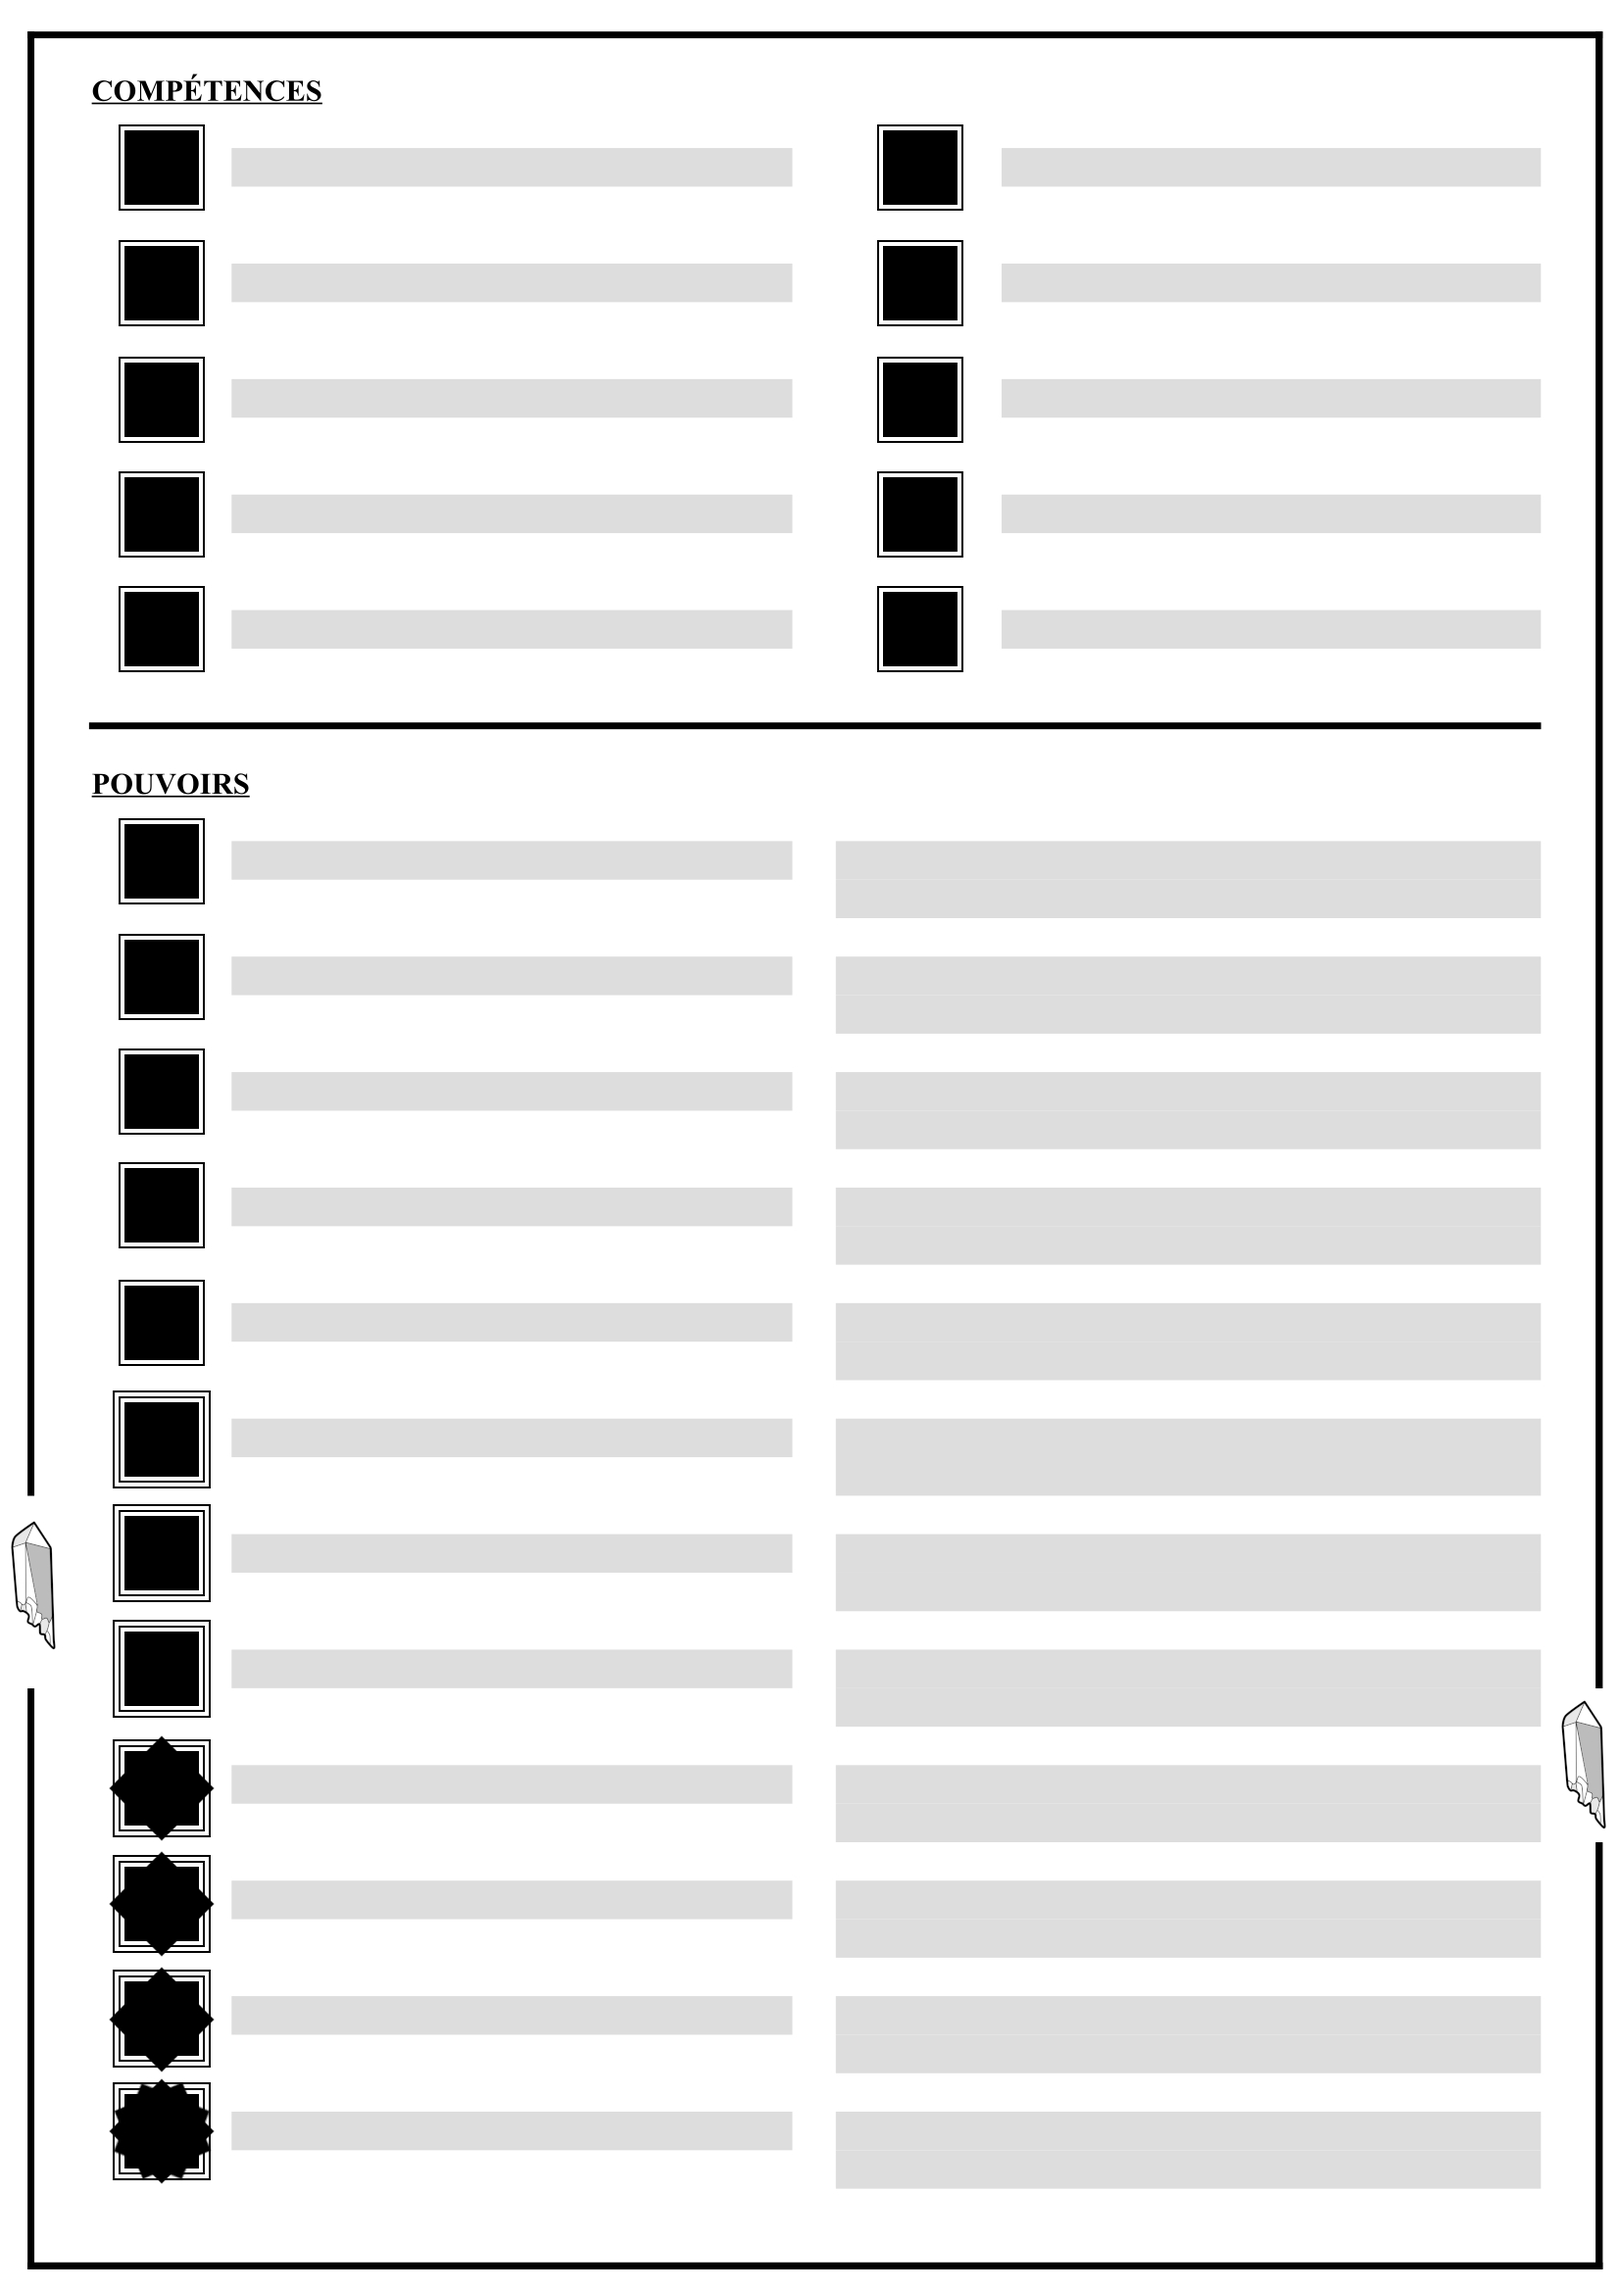
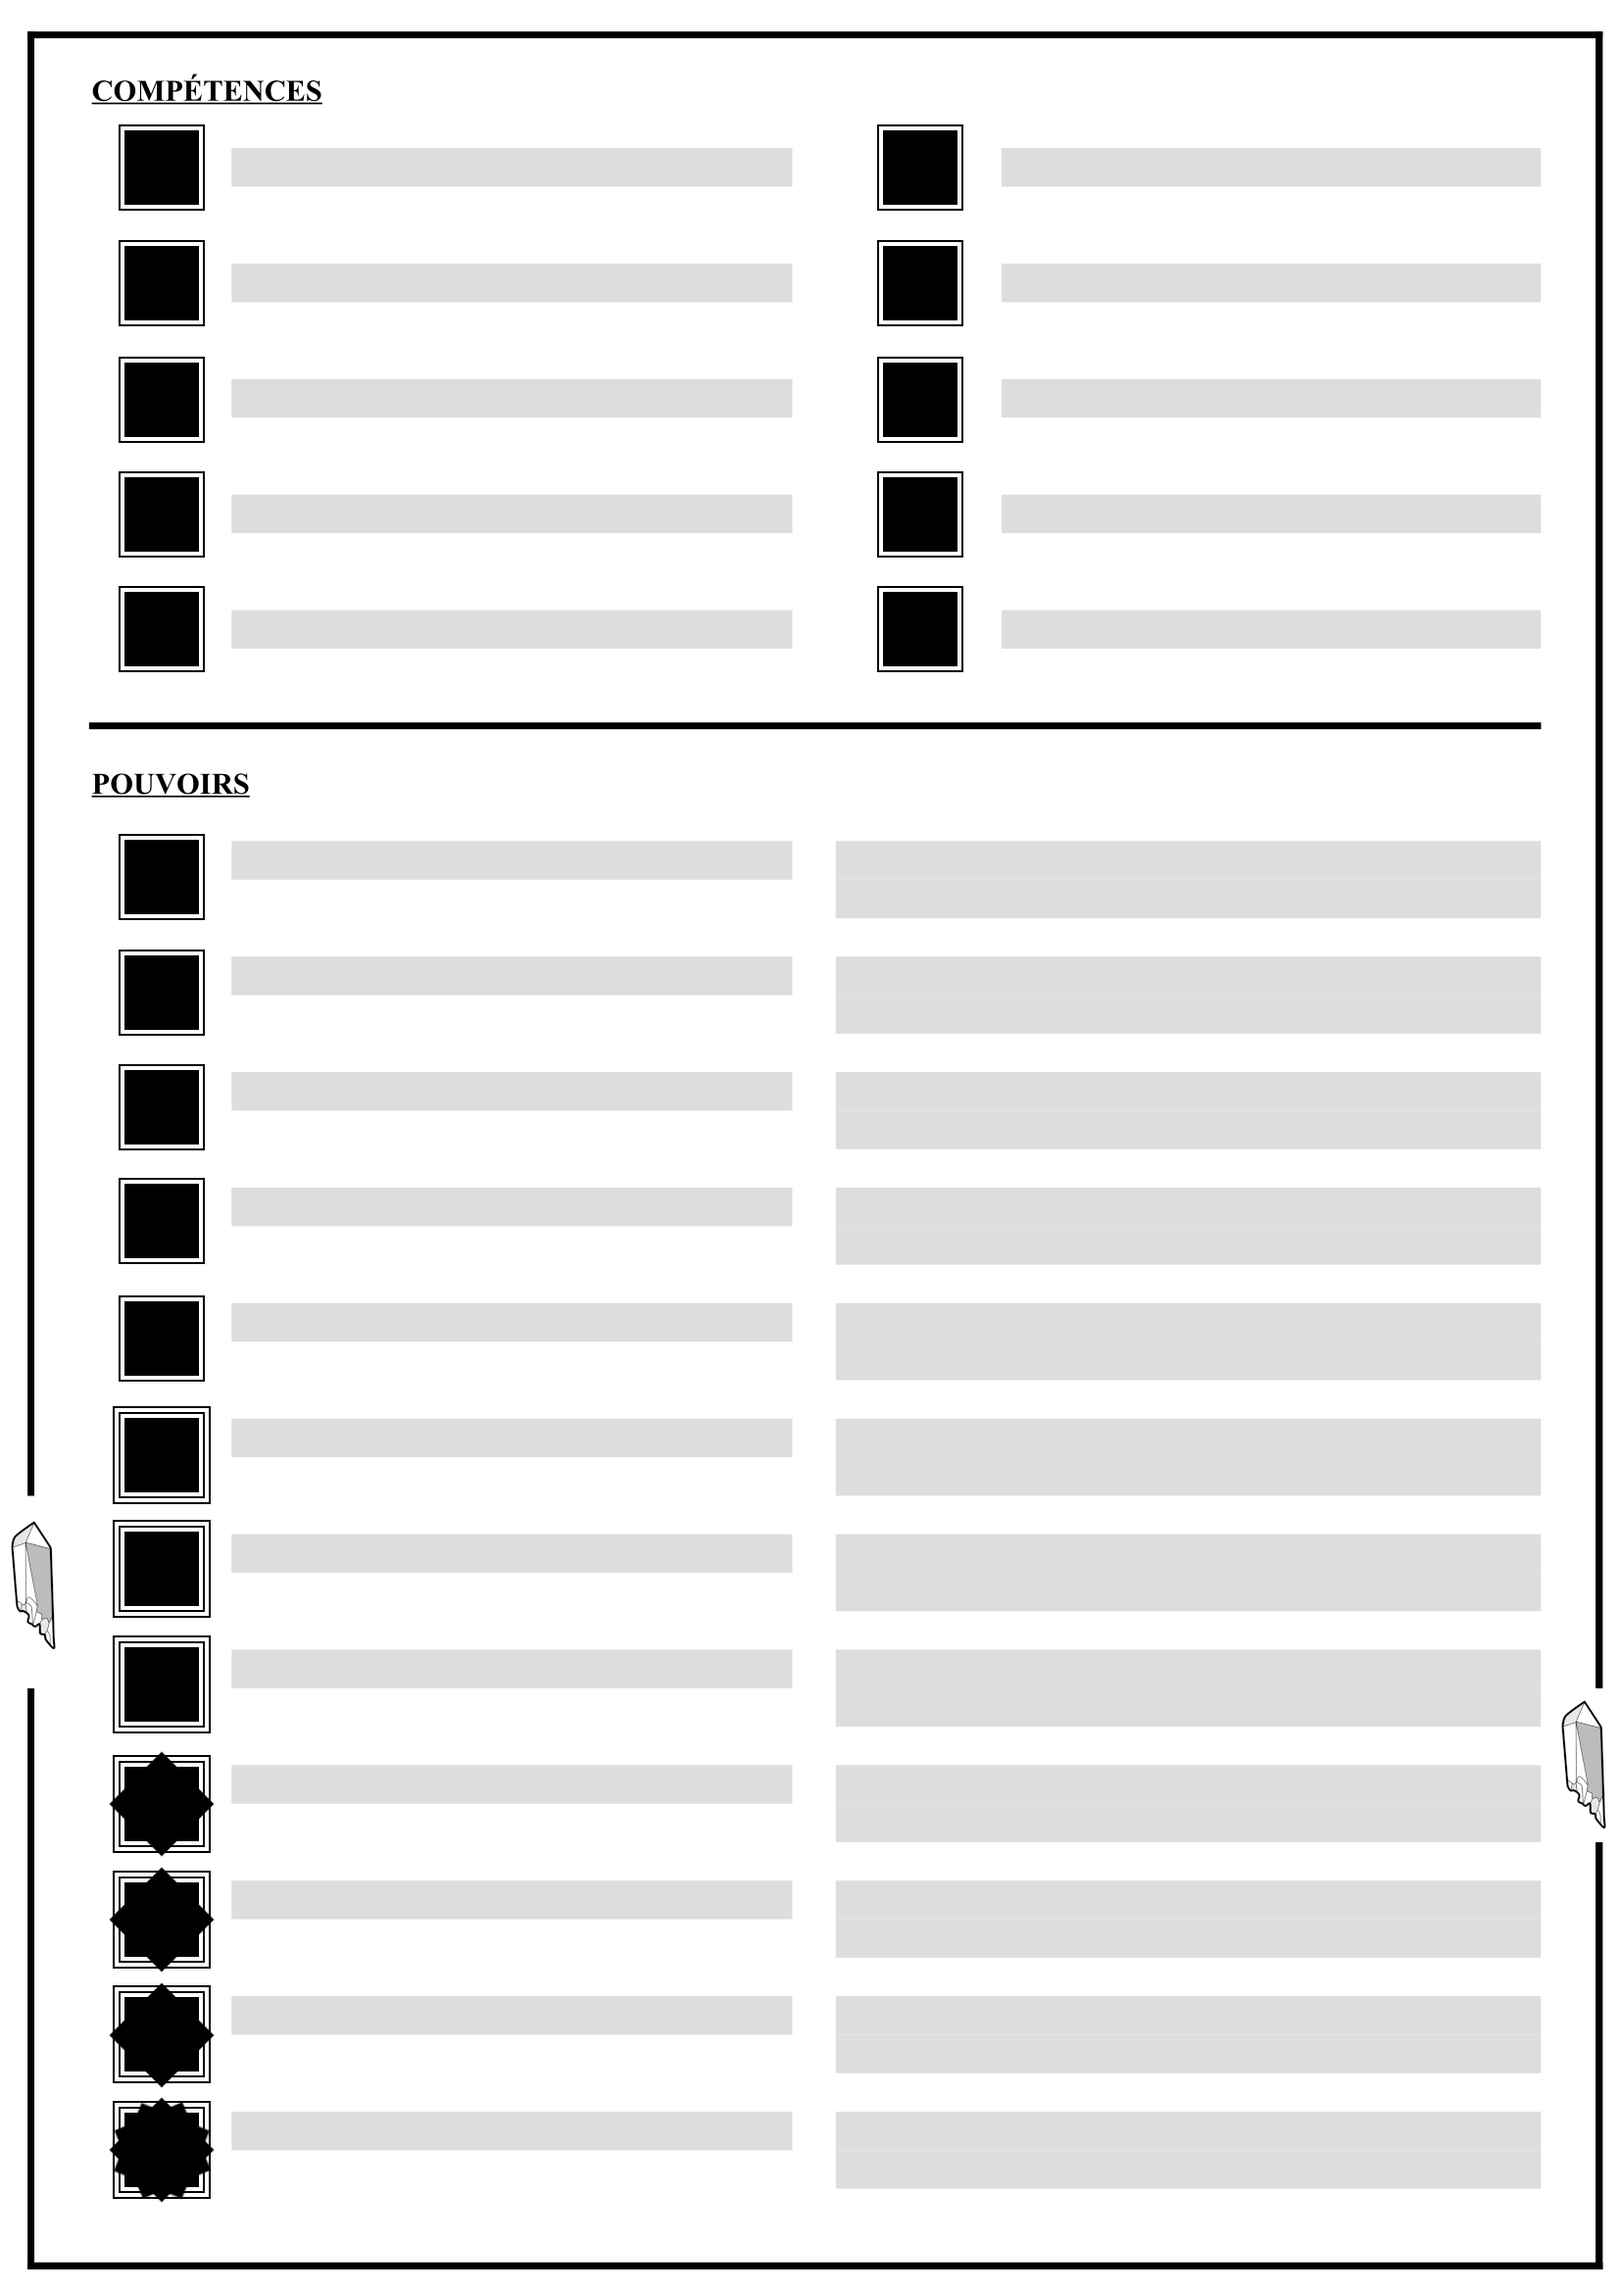
Refactor(creation): Change display of powers

Changed region(s): [[0.0617, 0.3435, 0.1234, 0.9679]]

diff --git a/src/utils/downloads.ts b/src/utils/downloads.ts
@@ -1,7 +1,8 @@
 import { ArlenorCharacter } from "@/models/ArlenorCharacter";
+import { ArlenorPower, PowerRanksEnum } from "@/models/ArlenorPower";
 import jsPDF from "jspdf";
 
-const downloadPDF = async(character: ArlenorCharacter): Promise<void> => {
+const downloadPDF = async(character: ArlenorCharacter, allPowers: ArlenorPower[]): Promise<void> => {
   const doc = new jsPDF("p", "px", "a4");
   const width = doc.internal.pageSize.getWidth();
   const height = doc.internal.pageSize.getHeight();
@@ -101,24 +102,57 @@ const downloadPDF = async(character: ArlenorCharacter): Promise<void> => {
   }
 
   // --- POUVOIRS
-  const iconPower = await require("../assets/icons/powers/pouvoir_mental.png");
+  const powersS = allPowers.filter(power => power.codeRank === PowerRanksEnum.Unique.Code);
+  const powersA = allPowers.filter(power => power.codeRank === PowerRanksEnum.TresRare.Code);
+  const powersB = allPowers.filter(power => power.codeRank === PowerRanksEnum.Rare.Code);
+  const powersC = allPowers.filter(power => power.codeRank === PowerRanksEnum.Commun.Code);
+
+  const spe01 = powersC[0]?.speciality?.name;
+  const spe02 = powersB[0]?.speciality?.name;
+  const grp01 = powersC[0]?.group?.name;
+  const grp02 = powersB[0]?.group?.name;
+
+  x = 425;
+  y = 212;
+  doc.text("Classe principale : " + spe01 + "(" + grp01 + ")", x, y, { align: "right" });
+  doc.text("Classe secondaire : " + spe02 + "(" + grp02 + ")", x, y+12, { align: "right" });
 
   x = 34.6;
   y = 227;
   for(let i = 0; i < 12; i++) {
-    doc.addImage(iconPower, "JPEG", x, y, 20, 20);
-    doc.text("Nom du pouvoir", x + x_txt_scale - 1, y + y_txt_scale);
-    doc.setFontSize(8);
-    doc.text("Description du pouvoir...description du pouvoir...description du pouvoir...description du pouvoir..."
-    +"description du pouvoir...description du pouvoir...description du pouvoir...description du pouvoir...", x + 202, y + y_txt_scale - 2, {
-      align: "justify",
-      maxWidth: 180,
-    });
-    doc.setFontSize(10);
+    let power = null;
+    if (0 <= i && i <= 4 && (i+1) <= powersC.length) power = powersC[i];
+    if (5 <= i && i <= 7 && (i+1-5) <= powersB.length) power = powersB[i-5];
+    if (8 <= i && i <= 10 && (i+1-8) <= powersA.length) power = powersA[i-8];
+    if (i === 11 && (i+1-11) <= powersS.length) power = powersS[i-11];
+    if (power) {
+      if (power.image) doc.addImage(power.image, "JPEG", x, y+4.5, 20, 20);
+
+      const title = checkLibelle(power.name + " (" + power.type.Libelle + ")", 40);
+      const subtitle = checkLibelle(power.range.Libelle, 6, true)
+        + " - " + checkLibelle(power.duration.Libelle, 6, true)
+        + " - " + power.tests.Libelle
+        + " - " + (power.chaneling ? "Avec" : "Sans") + " canalisation";
+      const description = checkLibelle(power.description, 185);
+
+      doc.text(title, x + x_txt_scale - 1, y + y_txt_scale);
+      doc.setFontSize(8);
+      doc.text(subtitle, x + x_txt_scale - 1, y + y_txt_scale + 10);
+      doc.text(description, x + 202, y + y_txt_scale - 2, {
+        align: "justify",
+        maxWidth: 180,
+      });
+      doc.setFontSize(10);
+    }
     y += y_line_scale;
   }
 
   doc.save("Arlenor_" + character.name + ".pdf");
+};
+
+const checkLibelle = (value: string, max: number, onlyPoint = false) => {
+  if (value.length <= (max - (onlyPoint ? 1 : 3))) return value;
+  else return value.slice(0, max - (onlyPoint ? 1 : 3)) + (onlyPoint ? "." : "...");
 };
 
 export default {

diff --git a/src/views/roleplay/creation/CreationView.ts b/src/views/roleplay/creation/CreationView.ts
@@ -1,5 +1,6 @@
 import { ArlenorCharacter } from "@/models/ArlenorCharacter";
 import { PageTitles } from "@/models/PagesTitles";
+import api from "@/utils/api";
 import downloads from "@/utils/downloads";
 import { defineComponent, ref } from "vue";
 import { useStore } from "vuex";
@@ -60,8 +61,10 @@ export default defineComponent({
       this.store.commit("resetCharacter");
       this.selection = 0;
     },
-    downloadCharacter(): void {
-      downloads.downloadPDF(this.character);
+    async downloadCharacter() {
+      let allPowers = await api.readAllPower();
+      allPowers = allPowers.sort((a, b) => a.name.localeCompare(b.name));
+      downloads.downloadPDF(this.character, allPowers);
     }
   },
 

diff --git a/src/views/backoffice/sections/PowerForm.vue b/src/views/backoffice/sections/PowerForm.vue
@@ -81,7 +81,7 @@
       <span>Description du pouvoir</span>
       <textarea
         v-model.trim.lazy="v$.form.description.$model"
-        maxlength="440" />
+        maxlength="180" />
     </div>
 
     <div class="layout-row">
